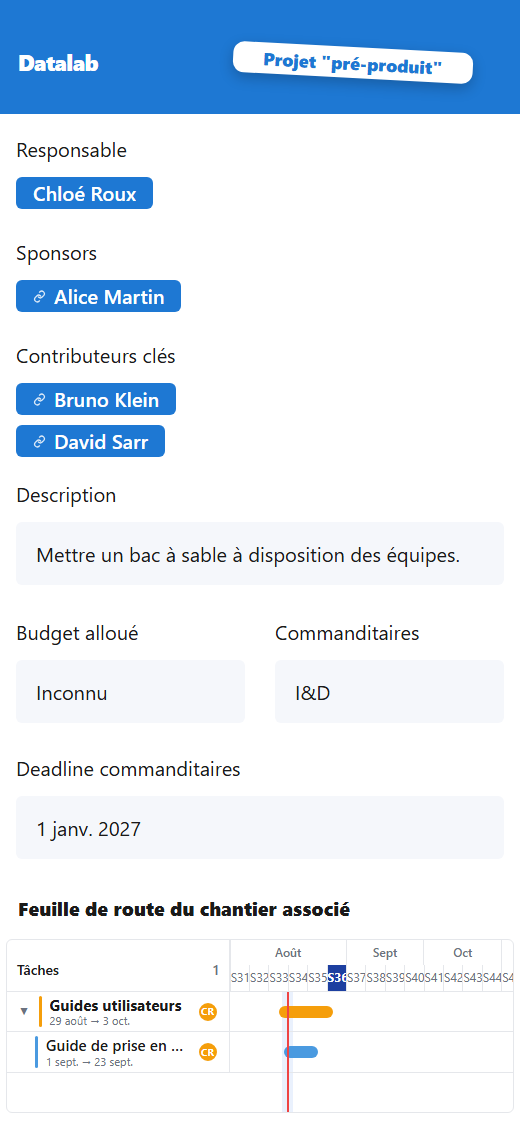
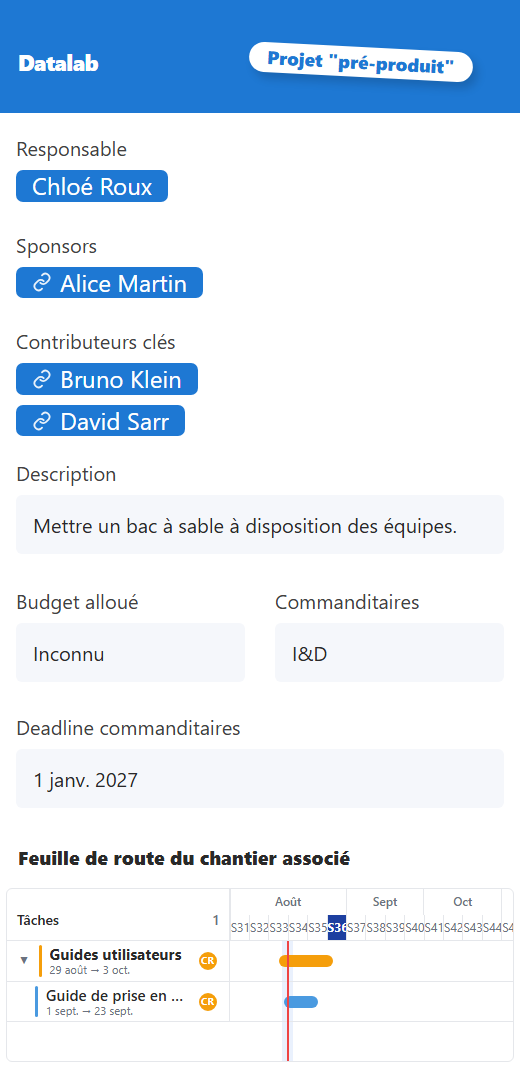
feat(fiche): forme de l etiquette, graisses et couleurs de la maquette
L etiquette de type est une gelule, les pastilles passent en graisse normale
a 24 px, l icone de lien a la hauteur des majuscules, et les gris des textes
sont ceux releves sur la maquette.

diff --git a/projects/tasks_app/fiche.html b/projects/tasks_app/fiche.html
@@ -9,7 +9,8 @@
         :root {
             --fond: #ffffff;
             --fond-doux: #f5f7fb;
-            --texte: #1a1a1a;
+            --texte: #292929;
+            --texte-libelle: #414141;
             --texte-doux: #6b7280;
             --trait: #e5e7eb;
             --accent: #1e78d3;
@@ -21,6 +22,7 @@
         @media (prefers-color-scheme: dark) {
             :root {
                 --fond: #0b1220; --fond-doux: #16213a; --texte: #e5e7eb; --texte-doux: #94a3b8;
+                --texte-libelle: #cbd5e1;
                 --trait: #1e293b; --accent-clair: #16213a;
             }
         }
@@ -40,9 +42,9 @@
            travers et debordant sur sa droite. */
         .fiche-type {
             margin-left: auto; margin-right: 29px; background: #fff; color: var(--accent);
-            border-radius: 11px; padding: 5px 30px; font-weight: 800; line-height: 1.2;
-            font-size: clamp(1.1rem, 1.95vw, 1.75rem); white-space: nowrap;
-            transform: rotate(3deg); box-shadow: 0 5px 14px rgba(0, 0, 0, 0.22);
+            border-radius: 999px; padding: 4px 18px; font-weight: 800; line-height: 1.2;
+            font-size: clamp(1.15rem, 2.27vw, 2rem); white-space: nowrap;
+            transform: rotate(3deg); box-shadow: 5px 6px 10px rgba(0, 0, 0, 0.16);
         }
 
         .fiche-cadrage { display: flex; gap: 48px; flex-wrap: wrap; padding: 32px 34px 10px; }
@@ -51,11 +53,11 @@
         .fiche-colonne.large { min-width: 300px; }
         .fiche-trio { display: flex; gap: 30px; flex-wrap: wrap; margin-top: 4px; }
         .fiche-trio .fiche-bloc { flex: 1; min-width: 160px; }
-        .fiche-label { color: var(--texte); font-size: 1.25rem; margin-bottom: 14px; }
+        .fiche-label { color: var(--texte-libelle); font-size: 1.25rem; margin-bottom: 8px; }
         .fiche-valeur { display: flex; flex-direction: column; align-items: flex-start; gap: 10px; }
         /* Les zones de saisie du metier ont un fond, les listes de personnes n'en ont pas. */
         .bloc-description .fiche-valeur, .fiche-trio .fiche-valeur {
-            background: var(--fond-doux); border-radius: var(--rayon); padding: 17px 20px;
+            background: var(--fond-doux); border-radius: var(--rayon); padding: 15px 17px;
             width: 100%; display: block; white-space: pre-wrap;
             font-size: 1.25rem; line-height: 1.45;
         }
@@ -63,9 +65,9 @@
 
         .fiche-personne {
             display: inline-flex; align-items: center; gap: 8px; background: var(--accent);
-            color: #fff; border-radius: var(--rayon); padding: 4px 17px; font-weight: 600; font-size: 1.25rem; line-height: 1.2;
+            color: #fff; border-radius: 7px; padding: 2px 16px; font-weight: 400; font-size: 1.5rem; line-height: 1.15;
         }
-        .fiche-lien { opacity: 0.85; flex: none; }
+        .fiche-lien { opacity: 0.9; flex: none; width: 20px; height: 20px; }
 
         .fiche-route { padding: 32px 34px 0; }
         .fiche-route h2 { font-size: 1.2rem; font-weight: 800; margin: 0 0 16px; }
@@ -810,7 +812,7 @@
                 + '<div class="fiche-valeur">' + (contenu || '<span class="vide">Non renseigné</span>') + '</div></div>';
         }
 
-        const ICONE_LIEN = '<svg class="fiche-lien" width="13" height="13" viewBox="0 0 24 24" fill="none" stroke="currentColor" stroke-width="2.4" stroke-linecap="round">'
+        const ICONE_LIEN = '<svg class="fiche-lien" width="20" height="20" viewBox="0 0 24 24" fill="none" stroke="currentColor" stroke-width="2.2" stroke-linecap="round">'
             + '<path d="M10 13a5 5 0 0 0 7 0l3-3a5 5 0 0 0-7-7l-1 1"></path><path d="M14 11a5 5 0 0 0-7 0l-3 3a5 5 0 0 0 7 7l1-1"></path></svg>';
 
         function pastilles(ids, avecLien) {

diff --git a/published/taskflow/fiche/index.html b/published/taskflow/fiche/index.html
@@ -9,7 +9,8 @@
         :root {
             --fond: #ffffff;
             --fond-doux: #f5f7fb;
-            --texte: #1a1a1a;
+            --texte: #292929;
+            --texte-libelle: #414141;
             --texte-doux: #6b7280;
             --trait: #e5e7eb;
             --accent: #1e78d3;
@@ -21,6 +22,7 @@
         @media (prefers-color-scheme: dark) {
             :root {
                 --fond: #0b1220; --fond-doux: #16213a; --texte: #e5e7eb; --texte-doux: #94a3b8;
+                --texte-libelle: #cbd5e1;
                 --trait: #1e293b; --accent-clair: #16213a;
             }
         }
@@ -40,9 +42,9 @@
            travers et debordant sur sa droite. */
         .fiche-type {
             margin-left: auto; margin-right: 29px; background: #fff; color: var(--accent);
-            border-radius: 11px; padding: 5px 30px; font-weight: 800; line-height: 1.2;
-            font-size: clamp(1.1rem, 1.95vw, 1.75rem); white-space: nowrap;
-            transform: rotate(3deg); box-shadow: 0 5px 14px rgba(0, 0, 0, 0.22);
+            border-radius: 999px; padding: 4px 18px; font-weight: 800; line-height: 1.2;
+            font-size: clamp(1.15rem, 2.27vw, 2rem); white-space: nowrap;
+            transform: rotate(3deg); box-shadow: 5px 6px 10px rgba(0, 0, 0, 0.16);
         }
 
         .fiche-cadrage { display: flex; gap: 48px; flex-wrap: wrap; padding: 32px 34px 10px; }
@@ -51,11 +53,11 @@
         .fiche-colonne.large { min-width: 300px; }
         .fiche-trio { display: flex; gap: 30px; flex-wrap: wrap; margin-top: 4px; }
         .fiche-trio .fiche-bloc { flex: 1; min-width: 160px; }
-        .fiche-label { color: var(--texte); font-size: 1.25rem; margin-bottom: 14px; }
+        .fiche-label { color: var(--texte-libelle); font-size: 1.25rem; margin-bottom: 8px; }
         .fiche-valeur { display: flex; flex-direction: column; align-items: flex-start; gap: 10px; }
         /* Les zones de saisie du metier ont un fond, les listes de personnes n'en ont pas. */
         .bloc-description .fiche-valeur, .fiche-trio .fiche-valeur {
-            background: var(--fond-doux); border-radius: var(--rayon); padding: 17px 20px;
+            background: var(--fond-doux); border-radius: var(--rayon); padding: 15px 17px;
             width: 100%; display: block; white-space: pre-wrap;
             font-size: 1.25rem; line-height: 1.45;
         }
@@ -63,9 +65,9 @@
 
         .fiche-personne {
             display: inline-flex; align-items: center; gap: 8px; background: var(--accent);
-            color: #fff; border-radius: var(--rayon); padding: 4px 17px; font-weight: 600; font-size: 1.25rem; line-height: 1.2;
+            color: #fff; border-radius: 7px; padding: 2px 16px; font-weight: 400; font-size: 1.5rem; line-height: 1.15;
         }
-        .fiche-lien { opacity: 0.85; flex: none; }
+        .fiche-lien { opacity: 0.9; flex: none; width: 20px; height: 20px; }
 
         .fiche-route { padding: 32px 34px 0; }
         .fiche-route h2 { font-size: 1.2rem; font-weight: 800; margin: 0 0 16px; }
@@ -810,7 +812,7 @@
                 + '<div class="fiche-valeur">' + (contenu || '<span class="vide">Non renseigné</span>') + '</div></div>';
         }
 
-        const ICONE_LIEN = '<svg class="fiche-lien" width="13" height="13" viewBox="0 0 24 24" fill="none" stroke="currentColor" stroke-width="2.4" stroke-linecap="round">'
+        const ICONE_LIEN = '<svg class="fiche-lien" width="20" height="20" viewBox="0 0 24 24" fill="none" stroke="currentColor" stroke-width="2.2" stroke-linecap="round">'
             + '<path d="M10 13a5 5 0 0 0 7 0l3-3a5 5 0 0 0-7-7l-1 1"></path><path d="M14 11a5 5 0 0 0-7 0l-3 3a5 5 0 0 0 7 7l1-1"></path></svg>';
 
         function pastilles(ids, avecLien) {

diff --git a/projects/tasks_app/fiche.js b/projects/tasks_app/fiche.js
@@ -145,7 +145,7 @@ function bloc(classe, libelle, contenu) {
         + '<div class="fiche-valeur">' + (contenu || '<span class="vide">Non renseigné</span>') + '</div></div>';
 }
 
-const ICONE_LIEN = '<svg class="fiche-lien" width="13" height="13" viewBox="0 0 24 24" fill="none" stroke="currentColor" stroke-width="2.4" stroke-linecap="round">'
+const ICONE_LIEN = '<svg class="fiche-lien" width="20" height="20" viewBox="0 0 24 24" fill="none" stroke="currentColor" stroke-width="2.2" stroke-linecap="round">'
     + '<path d="M10 13a5 5 0 0 0 7 0l3-3a5 5 0 0 0-7-7l-1 1"></path><path d="M14 11a5 5 0 0 0-7 0l-3 3a5 5 0 0 0 7 7l1-1"></path></svg>';
 
 function pastilles(ids, avecLien) {
